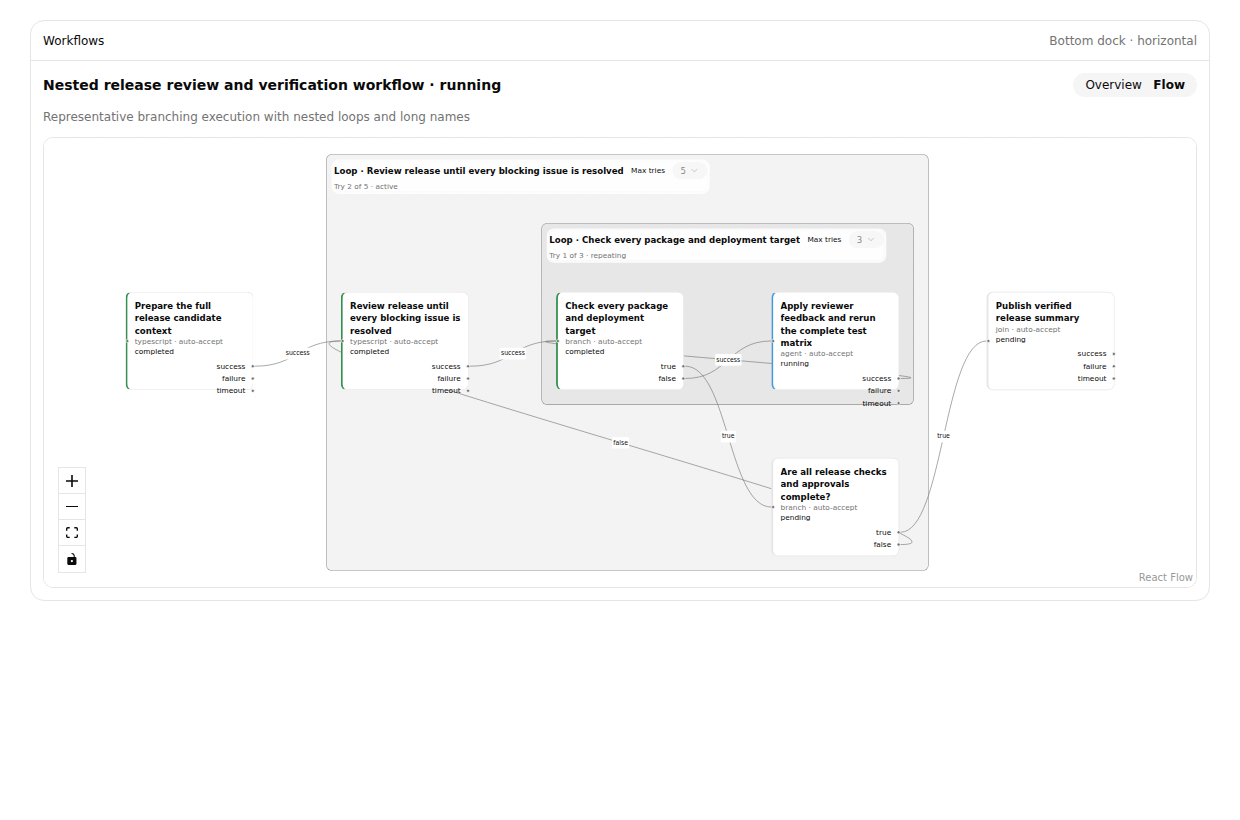
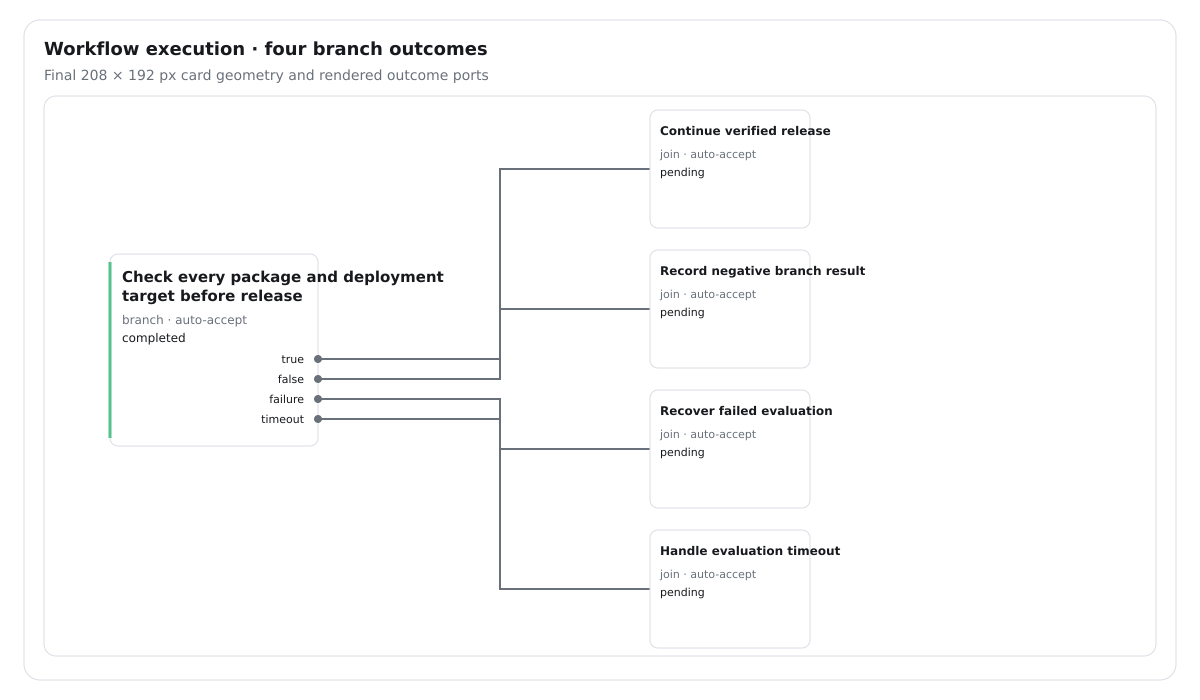
Fix workflow branch card geometry

diff --git a/web/src/components/workflow-graph.test.ts b/web/src/components/workflow-graph.test.ts
@@ -1,0 +1,70 @@
+import assert from "node:assert/strict";
+import { readFileSync } from "node:fs";
+import { createRequire } from "node:module";
+import { it } from "node:test";
+import { runInNewContext } from "node:vm";
+import { transformSync } from "esbuild";
+import type { ReactElement } from "react";
+import type { WorkflowStep } from "../../../src/protocol/workflows.ts";
+import {
+  WORKFLOW_CARD_HEIGHT,
+  WORKFLOW_CARD_WIDTH,
+} from "../presentation/workflow-dimensions.ts";
+
+type Element = ReactElement<Record<string, any>>;
+
+function workflowNode(step: WorkflowStep, vertical: boolean): Element {
+  const module = { exports: {} as { WorkflowNode: (props: any) => Element } };
+  const require = createRequire(import.meta.url);
+  const code = transformSync(
+    readFileSync(new URL("./workflow-graph.tsx", import.meta.url), "utf8"),
+    { loader: "tsx", format: "cjs", jsx: "automatic" },
+  ).code;
+  runInNewContext(code, {
+    module,
+    exports: module.exports,
+    require: (name: string) => {
+      if (name.endsWith(".css")) return {};
+      if (name === "@xyflow/react") {
+        return { Handle: "Handle", Position: { Bottom: "bottom", Right: "right", Top: "top", Left: "left" } };
+      }
+      if (name === "react" || name === "react/jsx-runtime") return require(name);
+      if (name === "../presentation/workflow-dimensions.ts") {
+        return { WORKFLOW_CARD_HEIGHT, WORKFLOW_CARD_WIDTH };
+      }
+      return new Proxy({}, { get: (_target, key) => key });
+    },
+  });
+  return module.exports.WorkflowNode({
+    data: { step, permission: "auto-accept", status: "completed", vertical, execution: true },
+  });
+}
+
+function descendants(element: any): Element[] {
+  if (!element || typeof element !== "object" || !("props" in element)) return [];
+  return [element, ...[element.props.children].flat(Infinity).flatMap(descendants)];
+}
+
+const branch: WorkflowStep = {
+  id: "check",
+  name: "A branch title long enough to occupy two rendered lines",
+  kind: "branch",
+  condition: { operator: "equals", path: ["ready"], value: true },
+};
+
+for (const [vertical, position, orientation] of [
+  [true, "bottom", "vertical"],
+  [false, "right", "horizontal"],
+] as const) {
+  it(`renders all branch outcome ports on the ${position} of ${orientation} execution cards`, () => {
+    const card = workflowNode(branch, vertical);
+    assert.equal(card.props.style.width, WORKFLOW_CARD_WIDTH);
+    assert.equal(card.props.style.height, WORKFLOW_CARD_HEIGHT);
+    assert.equal(card.props["data-orientation"], orientation);
+    const outcomeRows = descendants(card).filter((item) => item.props["data-outcome"]);
+    assert.deepEqual(outcomeRows.map((item) => item.props["data-outcome"]), ["true", "false", "failure", "timeout"]);
+    const handles = descendants(card).filter((item) => item.type === "Handle" && item.props.type === "source");
+    assert.deepEqual(handles.map((item) => item.props.id), ["true", "false", "failure", "timeout"]);
+    assert.ok(handles.every((item) => item.props.position === position));
+  });
+}

diff --git a/web/src/presentation/workflow-execution.ts b/web/src/presentation/workflow-execution.ts
@@ -2,6 +2,14 @@ import type {
   WorkflowDefinition,
 } from '../../../src/protocol/workflows.ts';
 import { analyzeLoops } from '../../../src/workflows/loops.ts';
+import {
+  WORKFLOW_CARD_HEIGHT,
+  WORKFLOW_CARD_WIDTH,
+  WORKFLOW_COLUMN_GAP,
+  WORKFLOW_LANE_GAP,
+  WORKFLOW_RANK_GAP,
+  WORKFLOW_ROW_GAP,
+} from './workflow-dimensions.ts';
 
 export function attemptDuration(startedAt: number, finishedAt?: number): string {
   if (finishedAt === undefined) return 'In progress';
@@ -35,6 +43,17 @@ export function executionLayout(definition: WorkflowDefinition, vertical: boolea
     const rank = ranks.get(step.id) ?? 0;
     const lane = lanes.get(rank) ?? 0;
     lanes.set(rank, lane + 1);
-    return { ...step, position: vertical ? { x: lane * 310, y: rank * 220 } : { x: rank * 350, y: lane * 270 } };
+    return {
+      ...step,
+      position: vertical
+        ? {
+            x: lane * (WORKFLOW_CARD_WIDTH + WORKFLOW_LANE_GAP),
+            y: rank * (WORKFLOW_CARD_HEIGHT + WORKFLOW_RANK_GAP),
+          }
+        : {
+            x: rank * (WORKFLOW_CARD_WIDTH + WORKFLOW_COLUMN_GAP),
+            y: lane * (WORKFLOW_CARD_HEIGHT + WORKFLOW_ROW_GAP),
+          },
+    };
   }) };
 }

diff --git a/web/src/components/workflow-graph.tsx b/web/src/components/workflow-graph.tsx
@@ -32,6 +32,10 @@ import {
   loopProgress,
 } from "../presentation/workflow-loops.ts";
 import {
+  WORKFLOW_CARD_HEIGHT,
+  WORKFLOW_CARD_WIDTH,
+} from "../presentation/workflow-dimensions.ts";
+import {
   Select,
   SelectContent,
   SelectItem,
@@ -93,7 +97,7 @@ function LoopNode({
     </div>
   );
 }
-function WorkflowNode({
+export function WorkflowNode({
   data,
 }: NodeProps<
   Node<{ step: WorkflowStep; permission: string; status?: string; vertical?: boolean; execution?: boolean }>
@@ -105,7 +109,8 @@ function WorkflowNode({
     <div
       data-status={data.status}
       data-orientation={data.vertical ? "vertical" : "horizontal"}
-      className="workflow-step relative h-44 w-52 rounded-lg border bg-card p-3 text-xs text-card-foreground"
+      className="workflow-step relative rounded-lg border bg-card p-3 text-xs text-card-foreground"
+      style={{ width: WORKFLOW_CARD_WIDTH, height: WORKFLOW_CARD_HEIGHT }}
     >
       <Handle type="target" position={data.vertical ? Position.Top : Position.Left} />
       <strong

diff --git a/web/src/presentation/workflow-loops.ts b/web/src/presentation/workflow-loops.ts
@@ -6,6 +6,12 @@ import type {
 } from "../../../src/protocol/workflows.ts";
 import type { RecoverWorkflow } from "../../../src/protocol/workflow-executions.ts";
 import { analyzeLoops } from "../../../src/workflows/loops.ts";
+import {
+  WORKFLOW_CARD_HEIGHT,
+  WORKFLOW_CARD_WIDTH,
+} from "./workflow-dimensions.ts";
+
+export { WORKFLOW_CARD_HEIGHT, WORKFLOW_CARD_WIDTH } from "./workflow-dimensions.ts";
 
 export function cleanLoopSettings(
   definition: WorkflowDefinition,
@@ -55,8 +61,6 @@ export function cleanLoopSettings(
   };
 }
 
-export const WORKFLOW_CARD_WIDTH = 208;
-export const WORKFLOW_CARD_HEIGHT = 160;
 const LOOP_PADDING = 24;
 const LOOP_TOP_HEADER_HEIGHT = 112;
 const LOOP_SIDE_HEADER_WIDTH = 264;

diff --git a/test/workflows-pane.test.ts b/test/workflows-pane.test.ts
@@ -138,7 +138,6 @@ it('uses shared lifecycle-preserving tabs for execution overview, graph and step
   find(flow, 'WorkflowGraph').props.onSelect('join');
   const step = p.render();
   assert.equal(find(step, 'Tabs').props.value, 'Flow');
-  // The graph stays mounted (but hidden by its wrapper), retaining pan/zoom across details and Back.
   assert.ok(find(step, 'WorkflowGraph'));
   assert.ok(find(step, 'Select', node => node.props.value === 1));
   find(step, 'Button', node => [node.props.children].flat(Infinity).includes('Back to flow')).props.onClick();

diff --git a/web/src/presentation/workflow-dimensions.ts b/web/src/presentation/workflow-dimensions.ts
@@ -1,0 +1,7 @@
+export const WORKFLOW_CARD_WIDTH = 208;
+export const WORKFLOW_CARD_HEIGHT = 192;
+
+export const WORKFLOW_COLUMN_GAP = 142;
+export const WORKFLOW_ROW_GAP = 78;
+export const WORKFLOW_RANK_GAP = 28;
+export const WORKFLOW_LANE_GAP = 102;
